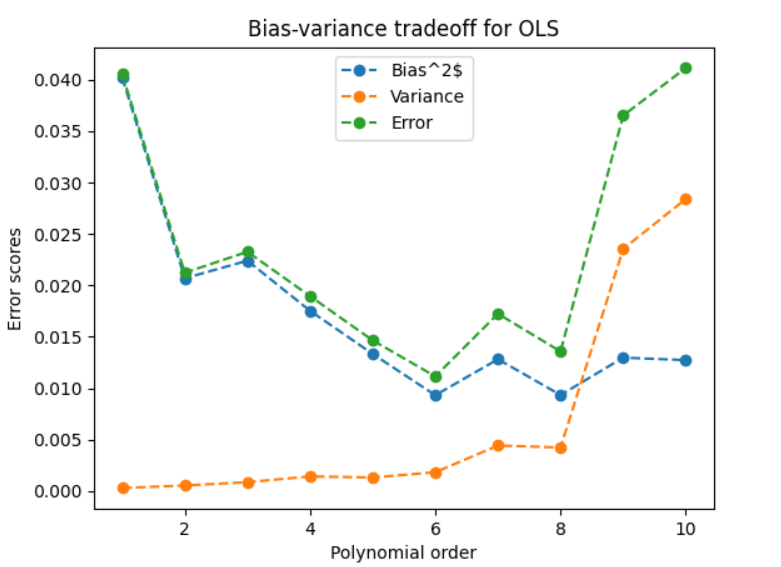
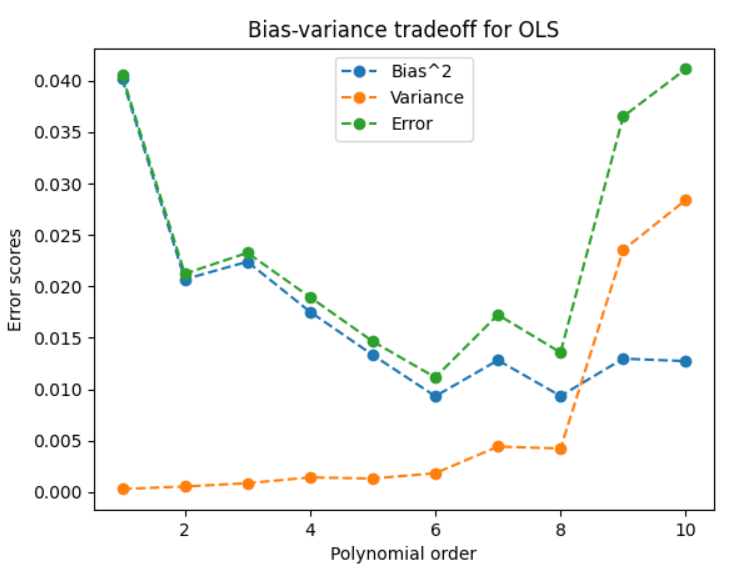
Finish bonus analysis

Changed region(s): [[0.0, 0.03, 0.9735, 0.9894]]

diff --git a/Bonus/biasvariance_trees.py b/Bonus/biasvariance_trees.py
@@ -8,43 +8,37 @@ from sklearn.datasets import load_wine as wine
 
 
 
-x, y, z, _ = dg.generate_data_Franke(1000, 0.1, seed=1)
+x, y, z, _ = dg.generate_data_Franke(500, 0.1, seed=1)
 X = np.array([[x[i], y[i]] for i in range(len(x))])
-X_train, X_test, z_train, z_test = train_test_split(X, y, test_size=0.2)
+X_train, X_test, z_train, z_test = train_test_split(X, z, test_size=0.25)
 
 
 
 
-"""
-# Load data
-data = win()
-X = data.data
-y = data.target
 
-# Split data into training and test sets
-X_TR, X_test, z_TR, z_test = train_test_split(X, y, test_size=0.2)
-X_train, X_test, z_train, z_test = train_test_split(X_TR, z_TR, test_size=0.2)
-n = X_train.shape[1]
-"""
-
-
-max_depth_range = 1000
+max_depth_range = 15
 bias_arr = []
 variance_arr = []
+error_arr = []
+print(f"Progress: {0} %", end="\r")
+x_vals = []
 
-for i in [10]:
+for i in range(1, max_depth_range):
+    x_vals.append(i)
+    #print("---------------Node size: ", i, "------------------")
     clf = tree.DecisionTreeRegressor(max_depth=i)
-    bias, variance = rt.bootstrap_tree(X_train, X_test, z_train, z_test, clf, 100)
-    plt.hist(bias.flatten(), bins=30)
-    plt.show()
-    plt.hist(variance, bins=30)
-    plt.show()
+    bias, variance, error = rt.bootstrap_tree(X_train, X_test, z_train, z_test, clf, 100)
+    bias_arr.append(bias)
+    variance_arr.append(variance)
+    error_arr.append(error)
+    print(f"Progress: {int(i/max_depth_range*100)} %", end="\r")
 
 
-plt.plot(np.linspace(1, max_depth_range, max_depth_range-1), bias_arr, label='Bias')
-plt.plot(np.linspace(1, max_depth_range, max_depth_range-1), variance_arr, label='Variance')
-plt.xlabel('Max depth')
-plt.ylabel('Error')
+plt.plot(x_vals, bias_arr, "--o", label='Bias^2', color='blue')
+plt.plot(x_vals, variance_arr, "--o", label='Variance', color='orange')
+plt.plot(x_vals, error_arr, "--o", label='Error', color='green')
+plt.title("Bias-variance tradeoff for decision tree regressor")
+plt.xlabel('Number of nodes in hidden layer')
+plt.ylabel('Error scores')
 plt.legend()
 plt.show()
-

diff --git a/Bonus/regression_tools.py b/Bonus/regression_tools.py
@@ -226,7 +226,7 @@ def bootstrap(x, y, z, deg, model, B, test_size=0.25):
     return bias, variance, error
 
 
-def bootstrap_tree(X_train, X_test, z_train, z_test, model, B, test_size=0.25):
+def bootstrap_tree(X_train, X_test, z_train, z_test, model, B):
     """Returns estimated distributions of beta estimators for a decision tree regressor."""
     z_pred = np.empty((z_test.shape[0], B))
     for i in range(B):
@@ -234,12 +234,24 @@ def bootstrap_tree(X_train, X_test, z_train, z_test, model, B, test_size=0.25):
         model.fit(X_, z_)
         z_pred[:,i] = model.predict(X_test)
 
-    bias = np.mean( (z_test - np.mean(z_pred, axis=1, keepdims=True))**2)
-    variance = np.mean( np.var(z_pred, axis=1, keepdims=True))
-    #error = np.mean( np.mean((z_test - z_pred)**2, axis=1, keepdims=True) )
-    return bias, variance
 
-def bootstrap_nn(X_train, X_test, z_train, z_test, model, B, test_size=0.25):
+    bias = []
+    variance = []
+    mse = []
+
+    for i in range(len(z_test)):
+        bias.append((z_test[i] - np.mean(z_pred[i]))**2)
+        variance.append(np.var(z_pred[i]))
+        mse.append(np.mean((z_test[i] - z_pred[i])**2))
+
+    # Find the bias and variance for neural network
+    bias = np.mean(bias)
+    variance = np.mean(variance)
+    error = np.mean(mse)
+
+    return bias, variance, error
+
+def bootstrap_nn(X_train, X_test, z_train, z_test, model, B):
     """Returns estimated distributions of beta estimators for a decision tree regressor."""
     z_pred = np.empty((z_test.shape[0], B))
     for i in range(B):
@@ -253,7 +265,7 @@ def bootstrap_nn(X_train, X_test, z_train, z_test, model, B, test_size=0.25):
 
     for i in range(len(z_test)):
         bias.append((z_test[i] - np.mean(z_pred[i]))**2)
-        variance.append(np.var(z_pred[i])/np.mean(bias))
+        variance.append(np.var(z_pred[i]))
         mse.append(np.mean((z_test[i] - z_pred[i])**2))
 
     # Find the bias and variance for neural network

diff --git a/Bonus/biasvariance_nn.py b/Bonus/biasvariance_nn.py
@@ -9,21 +9,24 @@ from sklearn.model_selection import train_test_split
 
 
 
-x, y, z, _ = dg.generate_data_Franke(20, 0.1, seed=1)
+x, y, z, _ = dg.generate_data_Franke(500, 0.1, seed=1)
 X = np.array([[x[i], y[i]] for i in range(len(x))])
-X_train, X_test, z_train, z_test = train_test_split(X, y, test_size=0.2)
+X_train, X_test, z_train, z_test = train_test_split(X, z, test_size=0.2)
 
 
 
-max_depth_range = 15
+max_depth_range = 25
 bias_arr = []
 variance_arr = []
 error_arr = []
 progress = 0
 print(f"Progress: {progress} %", end="\r")
 
-for i in range(2, max_depth_range):
-    clf = MLPRegressor(hidden_layer_sizes=(i, i,), activation='logistic', solver='lbfgs', max_iter=1000)
+x_vals = []
+
+for i in range(1, max_depth_range, 2):
+    x_vals.append(i)
+    clf = MLPRegressor(hidden_layer_sizes=(i,), activation='logistic', solver='lbfgs', max_iter=2000)
     bias, variance, error = rt.bootstrap_nn(X_train, X_test, z_train, z_test, clf, 100)
     bias_arr.append(bias)
     variance_arr.append(variance)
@@ -33,10 +36,11 @@ for i in range(2, max_depth_range):
 
 
 
-plt.plot(np.linspace(2, max_depth_range, max_depth_range-2), bias_arr, label='Bias')
-plt.plot(np.linspace(2, max_depth_range, max_depth_range-2), variance_arr, label='Variance')
-plt.plot(np.linspace(2, max_depth_range, max_depth_range-2), error_arr, label='Error')
-plt.xlabel('Max depth')
-plt.ylabel('Error')
+plt.plot(x_vals, bias_arr, "--o", label='Bias^2', color='blue')
+plt.plot(x_vals, variance_arr, "--o", label='Variance', color='orange')
+plt.plot(x_vals, error_arr, "--o", label='Error', color='green')
+plt.title("Bias-variance tradeoff for neural network")
+plt.xlabel('Number of nodes in hidden layer')
+plt.ylabel('Error scores')
 plt.legend()
 plt.show()

diff --git a/Bonus/biasvariance_linear.py b/Bonus/biasvariance_linear.py
@@ -56,7 +56,7 @@ for deg in degrees:
     variances.append(variance)
     errors.append(error)
 
-plt.plot(degrees, biases, "--o" , label="Bias^2$")
+plt.plot(degrees, biases, "--o" , label="Bias^2")
 plt.plot(degrees, variances, "--o" ,label="Variance")
 plt.plot(degrees, errors, "--o", label="Error")
 plt.title("Bias-variance tradeoff for OLS")
